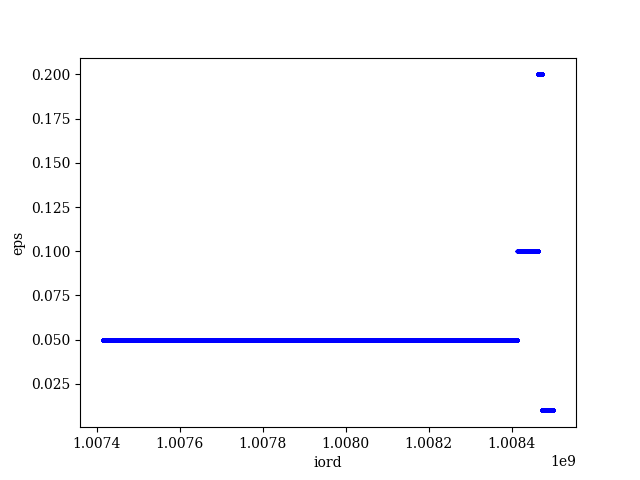
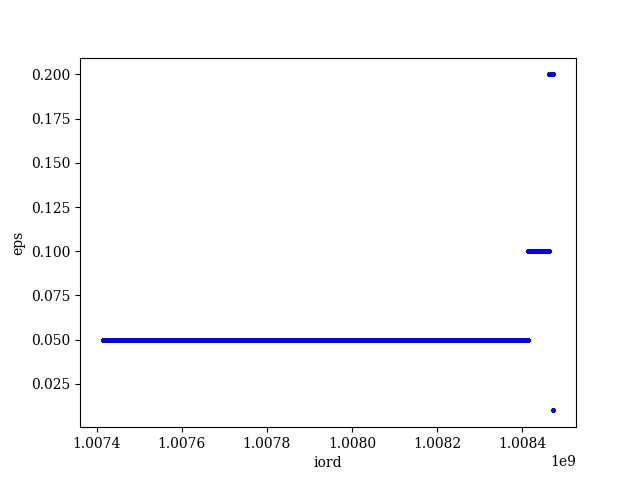
Testing

diff --git a/part_select/func_ps/iord_loc_test_3.py b/part_select/func_ps/iord_loc_test_3.py
@@ -8,7 +8,7 @@ import pynbody.plot.sph as sph
 DATA_FLDRPTH = "/Users/z5114326/Desktop/Tets/"
 # DATA_FLDRPTH = "/Volumes/My Passport for Mac/TideB/"
 
-BASE_FILE = "GLX.000010"
+BASE_FILE = "GLX.000001"
 
 params = {"font.family": "serif", "mathtext.fontset": "stix"}
 matplotlib.rcParams.update(params)
@@ -42,9 +42,9 @@ s_eps = post["eps"]
 x_pos = [pos[0] for pos in post["pos"]]
 y_pos = [pos[1] for pos in post["pos"]]
 
-eps_val = 0.01
-eps_val = 0.05
-eps_val = 0.10
+# eps_val = 0.01
+# eps_val = 0.05
+# eps_val = 0.10
 eps_val = 0.20  # companion
 
 x = [x for x, eps in zip(x_pos, s_eps) if round(eps, 2) == eps_val]
